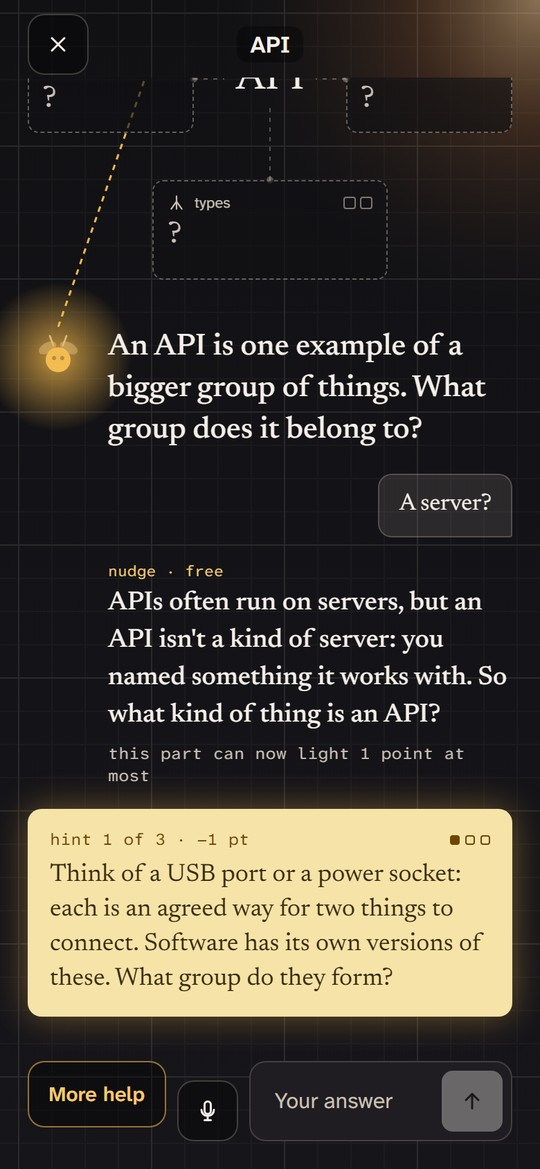
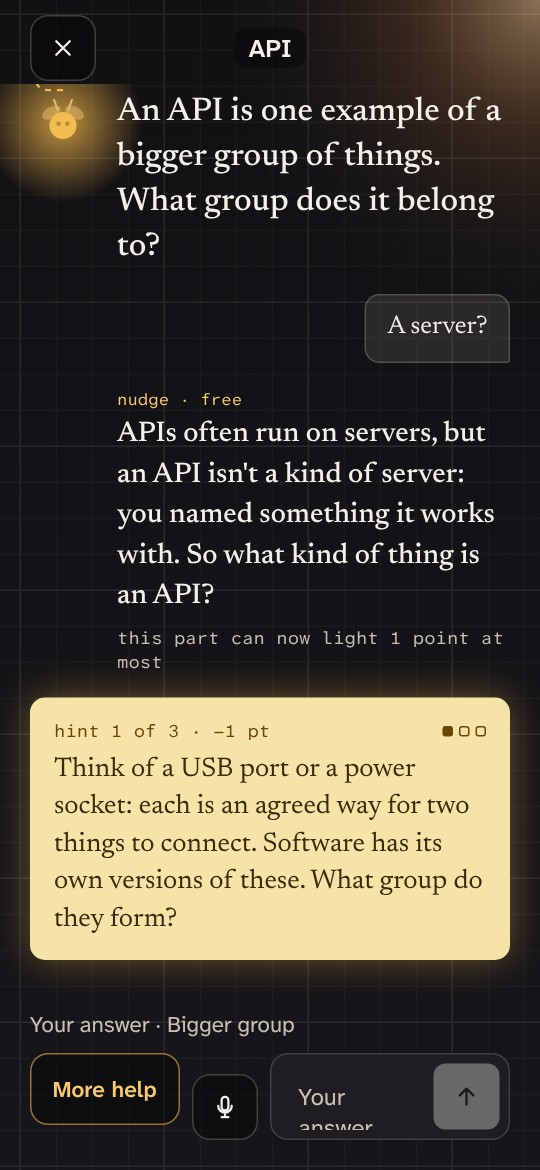
README: everything that shipped on Oct 23, with fresh demo-mode screens
The walk-through now follows the app's real screens and buttons: the
prediction picker with the scoring guide, the four map areas by name, Help
and its costs, the result's prediction and map score, Share, Resume, and
the map-first level 5 with the optional fact chat and the hint confirmation.
A new section, What Lumente remembers, explains the memory layer in plain
words and points at the SurrealDB prize notes. The Expo block takes its
counts from docs/expo-log.md: three Android builds, six updates on the
preview channel with the fingerprint check, three production web deploys,
Workflows, Observe, the installable web app, the update notice and the
version line. Try it has the live addresses and the reviewer sign-in from
docs/testing-notes.md. The diagram adds the resume, memory and delete routes
and the Agent Memory store. The Clerk and SurrealDB blocks say what Delete
my data removes now. The pilot results stay one marked placeholder.

The five screenshots are retaken from this branch's web export in demo mode
(the recorded API session), so they match the screens after #136 and #137.

Checked: every relative link resolves, no em dashes, every sentence under
25 words, the Mermaid diagram parses. Docs and images only, so no tests ran.

Claude-Session: https://claude.ai/code/session_01GYzHfCbjYhYU9wgS16jSwC

diff --git a/README.md b/README.md
@@ -19,7 +19,7 @@ Lumente helps students who code with AI learn to explain the ideas behind their 
 
 </div>
 
-<p align="center"><img src="docs/readme/hero.jpg" alt="Lumente's result screen on a laptop: the learner guessed 7 of 8 points and proved 5, next to the concept map for API with all four parts filled in" width="860" /></p>
+<p align="center"><img src="docs/readme/hero.jpg" alt="Lumente's result screen on a laptop: the learner predicted 7 of 8 points and proved 5, next to the concept map for API with all four areas filled in" width="860" /></p>
 
 <p align="center"><sub>The screens on this page come from the app's demo mode, which replays a session recorded live with Claude.</sub></p>
 
@@ -29,34 +29,50 @@ Lumente is an app for computer science students who build projects with AI tools
 
 In Lumente, the student picks one of those ideas and explains it by answering an AI's questions. At the end, they see how well they really know the idea, next to how well they thought they knew it.
 
-It works on the web and on Android. On an iPhone, use the web version.
+It runs on the web and on Android. On an iPhone or a laptop, the website installs as an app from the browser, with its own icon.
 
 ## Why we built it
 
 AI writes code faster than students can understand it. The gap shows when someone asks them to explain it: in a code review, an exam or a job interview. AI makes this more common, because code that works feels understood.
 
 - In a [study at Anthropic](https://www.anthropic.com/research/AI-assistance-coding-skills) (January 2026), developers learned a coding tool they'd never used. Those who used an AI assistant scored 50% on a quiz about it. Those who coded by hand scored 67%.
-- In [two studies at Aalto University](https://www.aalto.fi/en/news/ai-use-makes-us-overestimate-our-cognitive-performance), people who solved problems with ChatGPT did better, but they guessed their own score about 4 points too high.
+- In [two studies at Aalto University](https://www.aalto.fi/en/news/ai-use-makes-us-overestimate-our-cognitive-performance), people who solved problems with ChatGPT did better. But they guessed their own score about 4 points too high.
 
 Programming students face this every week. Their AI writes their work every day, and code reviews, project defenses and job interviews check it.
 
 ## How it works
 
-1. Pick an idea from your project, like an API, or type your own. You can paste in your notes about it.
-2. Guess your score, out of 8.
-3. Answer four questions about the idea, one at a time:
-   - What kind of thing is it?
-   - What is it often confused with, and how is it different?
-   - What does it need to count as one?
-   - What types of it are there?
-4. If you're stuck, ask for a hint. Each hint costs points, and you get less help as you improve.
-5. See your real score next to your guess.
+A session takes about ten minutes. Here is one, with the app's real buttons.
 
-The firefly on screen is the AI. It asks the questions and checks your answers, and you can type or speak. After enough practice, the roles flip: you ask the questions, and the AI only answers with facts.
+1. **Pick an idea.** The start screen asks: "Can you explain the ideas behind the code your AI wrote?" Tap a concept from your project, like API, JWT or CORS, or type your own. "Add your notes" takes pasted text for the AI to draw on. "Ask your AI what to map" gives you a prompt for your coding agent, so the concepts come from your own project. Then tap "Explore with guidance".
+2. **Predict your score.** Before any question, you pick a number from 0 to 8. A guide on the same screen says what each of the four map areas can earn. A clear, complete answer on the first try earns 2 points. One after a retry or a hint earns 1. A wrong, empty or revealed answer earns 0.
+3. **Explain it in your own words first.** Then the firefly asks about the four areas of the map, one at a time:
+   - Bigger group: what kind of thing is it?
+   - What it isn't: what is it often confused with, and how is it different?
+   - What it needs: what must be true for something to count as one?
+   - Its types: what kinds of it are there?
 
-| Pick and guess | Answer the questions | Get a hint | See your score |
+   You type or speak. Any answer you can defend passes. When an area is right, the feedback also says what you left out.
+4. **Ask for help when you're stuck.** Tap the firefly. The first Help on an area caps it at 1 point, and the third shows the answer for 0. At the early levels, a wrong answer gets a free nudge first. As you get areas right with little or no help, each one moves up a level, and the help fades.
+5. **See your score next to your prediction.** The result says the gap in words, like "You felt 2 points surer than you could explain". Under it, two rows of eight points: your prediction and your map score. Then come each area's points and which areas moved up a level. The coach adds one note for next time. "Share" sends your prediction and your score, never your answers.
+
+After enough practice, all four areas reach level 5 and the roles flip. You build the whole map yourself: tap an area, write your answer, "Save answer". The firefly's highlight points at the next empty area, for free. "Ask a fact (optional)" opens a chat that answers your questions with facts and never with a part of the map. A hint asks you to confirm and names its cost first. "Review & submit", then "Submit my map", scores all four areas together. "Test myself" on the start screen runs this mode on any concept at once and changes no levels. Our pilot's two tests use it.
+
+If you close the app or reload the page, the session waits on the start screen behind a "Resume" button.
+
+The firefly on screen is the AI. It asks and checks, its light warms under your finger or your pointer, and it never hands you the answer.
+
+| Predict | Answer the questions | Get a hint | See your score |
 |:---:|:---:|:---:|:---:|
-| <img src="docs/readme/step-1-guess.jpg" alt="The guess screen: how many of the 8 points will you prove? The guess is 7" width="200" /> | <img src="docs/readme/step-2-map.jpg" alt="A question about API, with two parts of the map already filled in" width="200" /> | <img src="docs/readme/step-3-hint.jpg" alt="After the answer 'A server?', a free nudge and a hint card that costs one point" width="200" /> | <img src="docs/readme/step-4-score.jpg" alt="The result: a guess of 7 and a score of 5, so the learner felt 2 points surer than they could explain" width="200" /> |
+| <img src="docs/readme/step-1-guess.jpg" alt="The prediction screen: how much can you explain on your own? The prediction is 7 of 8 points" width="200" /> | <img src="docs/readme/step-2-map.jpg" alt="A question about API, with two areas of the map already filled in" width="200" /> | <img src="docs/readme/step-3-hint.jpg" alt="After the answer 'A server?', a free nudge and a hint card that costs one point" width="200" /> | <img src="docs/readme/step-4-score.jpg" alt="The result: a prediction of 7 and a map score of 5, so the learner felt 2 points surer than they could explain" width="200" /> |
+
+## What Lumente remembers
+
+After each finished session, Lumente writes a few progress notes to SurrealDB Agent Memory. They hold your level on each area, your prediction next to your score, and how many Helps an area took. Each note is one sentence that code writes from a template. Your words never go in.
+
+The next time you practice the same concept, the hint giver and the coach read up to eight of these notes. They name the ones they used: "From what Lumente remembers: …". Tap that line, or "Memory" on the start screen, to see every note and how it changed. A new level replaces the old note and keeps its history.
+
+Memory never changes a score: the levels still come from plain code. "Delete my data" removes the notes with everything else. Memory went on for the Oct 23 pilot ([`DECISIONS.md`](DECISIONS.md), Oct 23). How it fits the SurrealDB prize is in [the prize notes](wiki/context/surrealdb-sponsor-prize.md).
 
 ## The idea behind it
 
@@ -71,7 +87,7 @@ The four questions come from Conceptual Pedagogy, a way of teaching from Colombi
 | What does it need to count as one? | It orbits a star, its own gravity pulled it into a round shape, and it has cleared other objects out of its path |
 | What types are there? | Rocky planets like Earth and Mars, and giants made mostly of gas or ice, like Jupiter and Neptune |
 
-Each part of the method comes from learning research: help that fades, asking your own questions, explaining in your own words, and checking what you really know. The AI writes the questions and judges the answers. Plain code works out every score, so we can explain every number.
+Research backs each part: help that fades, asking your own questions, explaining in your own words, and checking what you really know. The AI writes the questions and judges the answers. Plain code works out every score, so we can explain every number.
 
 The method, the research and what we haven't proven yet are in the [product thesis](wiki/synthesis/product-thesis.md).
 
@@ -95,29 +111,38 @@ The help fades. The understanding stays.
 
 ## Try it
 
+**In two minutes.** Open [Lumente on the web](https://reality-check.expo.app) in any browser. Sign in with an email code, or with Google on the web. To skip the email, use any address that ends in `+clerk_test@example.com` and the code `424242`. Tap "API", then "Explore with guidance". Pick a prediction, explain the idea in your own words, and answer the four questions. Ask the firefly for help once, to see what a hint costs. The result shows your prediction next to your score.
+
 | On | Do this |
 |---|---|
-| A laptop, or any phone's browser | Open [Lumente on the web](https://reality-check.expo.app) |
-| Android | Install the app from [this link](https://expo.dev/artifacts/eas/LVkBl_worJBs2ro5p6z9vFa1XtYyA992vF3QrkSzG_A.apk) |
-| iPhone | Use the web link. There's no iPhone app |
+| A laptop, or any phone's browser | Open [Lumente on the web](https://reality-check.expo.app). On a laptop or an iPhone, you can add it to the home screen: it opens full screen with its own icon |
+| Android | Install the app from [this link](https://expo.dev/artifacts/eas/LVkBl_worJBs2ro5p6z9vFa1XtYyA992vF3QrkSzG_A.apk). Android asks once to allow the install. The app updates itself on its second launch after we ship a fix |
+| iPhone | Use the web link. There's no App Store app |
 
-Sign in with Google or an email code. To skip the email, use any address that ends in `+clerk_test@example.com` and the code `424242`. The [five-minute guide](docs/testing-notes.md) walks you through a full session.
+The live addresses:
+
+- The website: https://reality-check.expo.app
+- The pilot's website, the same code deployed by hand before a test: https://reality-check--testers.expo.app
+- The server's health check: https://build-north-api.onrender.com/health answers `{"ok":true}`
+- The Android app: the `preview` build linked above (build 3, Oct 22)
+
+The [five-minute guide](docs/testing-notes.md) walks you through a full session, what is stored, and how to delete it.
 
 ## What we found
 
-Before Demo Day, five computer science students who code with AI tried Lumente. Each one took a test, did two practice sessions, and took a second test. Both tests were on ideas they hadn't practiced in the app.
+On the evening of Oct 23, five computer science students who code with AI tried Lumente. Each one took a test, did two practice sessions, and took a second test. Both tests were on ideas they hadn't practiced in the app.
 
-*TODO(Cynthia): the pilot's numbers (first test against second test, and the gap between guess and score), and when the testers said they'd open the app.*
+*TODO(Cynthia): the pilot's numbers: first test against second test, prediction against score, and when the testers said they'd open the app.*
 
 ## For the judges
 
 | Criterion | Where to look |
 |---|---|
-| Innovation | The AI won't do the thinking for you. You build each answer, the help fades as you improve, and after enough practice you ask the questions |
+| Innovation | The AI won't do the thinking for you. You build each answer, the help fades as you improve, and at level 5 you write the whole map and ask the questions. Between sessions, the app remembers your progress, never your words |
 | Real-world impact | One clear user, a problem backed by research, and our pilot's numbers. Students use it free. Instructors, bootcamps and colleges pay for seats and a view of what each student has mastered |
-| UI and design | Lumente's own look: a dark screen that lights up as you prove each answer. It works on phones, and as a two-column website on laptops |
-| Tech and deployment | Live on the web and on Android, built and shipped with Expo. Only our server talks to the AI, and plain code works out every score |
-| Security and ethics | The AI key stays on our server. Notes that look like a password never leave the phone. You can delete your data from the app. There are no streaks. Our testers were adults who agreed to take part |
+| UI and design | Lumente's own look: a dark screen that lights up as you prove each answer, and a firefly whose light answers your finger. It works on phones, installs as an app from the browser, and lays out as a two-column website on laptops |
+| Tech and deployment | Live on the web and on Android, built, updated and hosted with Expo's EAS. A session survives a reload or a killed app. Only our server talks to the AI, and plain code works out every score |
+| Security and ethics | The AI key stays on our server. Notes that look like a password never leave the phone. Memory keeps progress notes, never your words, and you can delete your data from the app. There are no streaks. Our testers were adults who agreed to take part |
 
 <details>
 <summary><b>How it's built</b></summary>
@@ -126,17 +151,20 @@ In short: the app runs on phones and the web, it talks only to our server, and o
 
 | Layer | What |
 |---|---|
-| App | Expo SDK 58, React Native, Expo Router, TypeScript. EAS Build (Android), EAS Update, EAS Hosting (web) |
-| API | Express 5 on Node 24, hosted on Render. SurrealDB Cloud for sessions, progress and AI logs. Clerk for sign-in |
-| Agents | Six Claude (Anthropic) agents: one asks the questions, one checks each answer, one checks all four answers at once, one answers with facts, one gives hints and one coaches. Each makes one structured call, and plain code runs the session |
+| App | Expo SDK 58, React Native, Expo Router, TypeScript. EAS Build (Android), EAS Update, EAS Hosting (web). The website is also an installable web app |
+| API | Express 5 on Node 24, hosted on Render. SurrealDB Cloud for sessions, levels and AI logs. SurrealDB Agent Memory for the progress notes. Clerk for sign-in |
+| Agents | Six Claude (Anthropic) agents. One asks the questions, one checks each answer, one checks the whole map, one answers with facts, one gives hints and one coaches. Each makes one structured call, and plain code runs the session |
 | Contracts | Zod schemas in `agents/src/contracts.ts` at every boundary: app to API, API to agents, agents to Claude |
+
+Every call to the server carries the Clerk token, and one route moves a session forward. The server reads it back after a reload, returns what Lumente remembers, and deletes everything on request. The full list is in [`agents/CONTRACTS.md`](agents/CONTRACTS.md).
 
 ```mermaid
 flowchart LR
-  App["App: Expo, Android and web<br/>EAS Build, Update, Hosting"] -->|"Clerk session token<br/>POST /sessions, /turns"| API["API: Express 5 on Render"]
+  App["App: Expo, Android and the web<br/>EAS Build, Update, Hosting"] -->|"Clerk session token<br/>POST /sessions, /turns<br/>GET /sessions/:id, /me/memory<br/>DELETE /me/data"| API["API: Express 5 on Render"]
   Clerk["Clerk"] -. "sign-in, token" .-> App
-  API -->|"verifies the token<br/>with the public key"| Clerk
-  API -->|"sessions, mastery, agent logs"| DB[("SurrealDB Cloud")]
+  API -->|"checks the token<br/>with the public key"| Clerk
+  API -->|"sessions, levels, agent logs"| DB[("SurrealDB Cloud")]
+  API -->|"progress notes: written at the result,<br/>read before a hint or the coach"| Memory[("SurrealDB Agent Memory")]
   API -->|"advance(): the orchestrator<br/>in agents/, plain code"| Agents["Agents: prompts and Zod contracts"]
   Agents -->|"one structured call per agent"| Claude["Claude (Anthropic)"]
 ```
@@ -150,29 +178,42 @@ We entered Best Overall, Best Use of Expo, Best Use of Clerk and Best Use of Sur
 <details>
 <summary><b>Best Use of Expo</b>: one codebase, shipped to Android and the web with EAS</summary>
 
-One TypeScript codebase runs on Android and the web. EAS Build made our Android app, starting Oct 21. EAS Update sends fixes straight to phones with no new install, and it shipped its first one the same day. EAS Hosting serves the website.
+One TypeScript codebase runs on Android and on the web, and the web build installs as an app on iPhones and laptops. There is no App Store app. We had no Apple account this week, so iPhones get the web app ([`DECISIONS.md`](DECISIONS.md), Oct 23).
 
-From the Expo SDK we use Expo Router, expo-updates, expo-secure-store (keeps the sign-in token), expo-web-browser (Clerk's sign-in on Android), expo-speech-recognition (answers by voice), expo-haptics, expo-font and Expo Observe.
+What EAS did for us, from the [Expo log](docs/expo-log.md), by the afternoon of Oct 23:
 
-Every build, update and deploy is in the [Expo log](docs/expo-log.md), and [How Expo shaped Lumente](docs/expo-log.md#how-expo-shaped-lumente-oct-22) tells the story, challenges included.
+- **EAS Build:** three Android builds. A development build and a `preview` APK on Oct 21, the day the EAS project was made. Then build 3 on Oct 22, after Lumente's icon and the voice module changed the native code. Build 3 is the APK linked above.
+- **EAS Update, with the fingerprint check:** six updates over the air on the `preview` channel. The first shipped the same day as the first build. The runtime policy is `fingerprint`, so an update only reaches builds with the same native code. Before an update, `eas fingerprint:compare` checked that build 3 could run it. Fixes went out as updates, and no fourth build was needed. On Oct 23, the testers' phones got the day's merges before the evening slots.
+- **The update notice:** when an update is downloaded, the app says "A new version is ready" with a Restart button. It checks again when it comes back to the foreground and when the start screen shows, at most once a minute.
+- **EAS Hosting:** the website, deployed from `main` three times by Oct 23. The `review`, `testers` and `polish` aliases served the design review, the pilot and our own checks. A web deploy uses no build credit.
+- **EAS Workflows:** `ship.yml` publishes the update and deploys the website, and `preview-build.yml` builds an APK when the fingerprint changes. Its first real run stalled in the free queue, so the two jobs ran by hand that day.
+- **Expo Observe:** launch times, time to interactive on each screen, and crashes on the Android app. It also reports the crashes a learner recovers from with Try again.
+- **The installable web app:** a web manifest, icons and Apple's home-screen tags in the static export. Every shared page gets a link card.
+- **The version line:** "Your data" ends with the version and the EAS Update the app runs. A tester or a judge can name exactly what they saw.
+
+From the Expo SDK we use Expo Router, expo-updates, expo-constants, expo-secure-store (the sign-in token), expo-web-browser and expo-auth-session (Clerk's sign-in on Android). Also expo-haptics, expo-font, expo-splash-screen, expo-file-system (the saved session on a phone), expo-dev-client and expo-observe. Answers by voice use expo-speech-recognition, a community module built on the Expo Modules API. Reanimated draws the light and the firefly, and react-native-svg draws the map.
+
+Every build, update and deploy is in the [Expo log](docs/expo-log.md). [How Expo shaped Lumente](docs/expo-log.md#how-expo-shaped-lumente-oct-22) has one line per Expo piece and the job it does. [Challenges we ran into](docs/expo-log.md#challenges-we-ran-into) has the real bugs with their causes and fixes.
 
 </details>
 
 <details>
 <summary><b>Best Use of Clerk</b>: sign-in and sessions, checked on our server without a network call</summary>
 
-Clerk runs sign-in and sessions, by email code or Google. We pick the sign-in methods in the Clerk dashboard, with no code change. The website shows Clerk's ready-made sign-in form, and Android opens Clerk's sign-in page in an in-app browser. Our server checks each session token with Clerk's public key, without a network call, and files every session and progress record under the Clerk user id. Delete my data removes that person's sessions, AI logs and progress.
+Clerk runs sign-in and sessions, by email code or Google. We pick the sign-in methods in the Clerk dashboard, with no code change. The website shows Clerk's ready-made sign-in form, and Android opens Clerk's sign-in page in an in-app browser. In the web app installed on an iPhone, the email code signs in without leaving the window. Our server checks each session token with Clerk's public key, without a network call. Every session, level and progress note is filed under the Clerk user id. Delete my data removes that person's sessions, AI logs, levels and memory notes, and signs them out.
 
 More in [How we used Clerk](docs/clerk.md).
 
 </details>
 
 <details>
-<summary><b>Best Use of SurrealDB Agent Memory</b>: the app remembers each learner across sessions</summary>
+<summary><b>Best Use of SurrealDB Agent Memory</b>: the app remembers each learner's progress across sessions</summary>
 
-<!-- TODO(Cynthia): keep this block only if memory is live at the freeze (plan-to-win, section 4). If the flag stays off, SurrealDB goes back to one line: our database, in plain tables. -->
+<!-- TODO(Cynthia): confirm that memory stayed on through the freeze. If the switch went off, cut this block to one line: SurrealDB Cloud is our database, in plain tables. -->
 
-SurrealDB Cloud stores the sessions, progress and AI logs, with a `dev` and a `prod` database. SurrealDB Agent Memory remembers each learner between sessions: their level on each part, their latest gap between guess and score, and the hints that cost them most. Code writes each memory as a short fact from a template, never in the learner's words, and memory never changes a score. Before the AI gives a hint or advice, our server reads up to 8 of these facts, and the AI names the ones it used, so every message traces back to its facts. Learners see what's remembered, and how it changed, in the app's Memory sheet, and Delete my data erases it ([`DECISIONS.md`](DECISIONS.md), Oct 22).
+SurrealDB Cloud stores the sessions, the levels and the AI logs, with a `dev` and a `prod` database. SurrealDB Agent Memory holds the progress notes from [What Lumente remembers](#what-lumente-remembers), one scope per learner under a salted hash of their Clerk id. Code writes each note from a template and sends it as a plain fact. Memory runs no model over it, and the learner's words never go in.
+
+Three agents write the notes (the evaluator the levels, the coach the gap, the hint giver the Helps), and two read them. Before a hint or the coach's message, the server reads up to 8 notes from earlier sessions. If the read takes over 1.5 seconds, the agent runs without them. The agent names the notes it used, the server keeps only the ids it passed in, and the app shows them under the message. A new level supersedes the old note and keeps its history, which is what the Memory sheet shows. Memory never changes a score, Delete my data purges the scope first, and the switch is one server variable. It went on for the Oct 23 pilot ([`DECISIONS.md`](DECISIONS.md), Oct 22 and Oct 23). What the live context taught us is on the [prize page](wiki/context/surrealdb-sponsor-prize.md).
 
 </details>
 
@@ -183,7 +224,7 @@ SurrealDB Cloud stores the sessions, progress and AI logs, with a `dev` and a `p
 | Name | Role |
 |---|---|
 | Cynthia Salazar | Team lead: the product, the design and the AI agents |
-| Leo Atienza | The server, hosting, Expo builds and sign-in |
+| Leo Atienza | The server, hosting, Expo builds, sign-in and the memory layer |
 | Jonathan *(TODO: last name)* | The app |
 | Kyle *(TODO: last name)* | The pilot, the pitch and the video |
 
@@ -195,9 +236,10 @@ SurrealDB Cloud stores the sessions, progress and AI logs, with a `dev` and a `p
 - We started from Expo's default `create-expo-app` template (SDK 58) and replaced its demo screens, icons and splash screen.
 - Fonts: Newsreader (Production Type), and Atkinson Hyperlegible Next and Mono (Braille Institute), under the SIL Open Font License, from `@expo-google-fonts`.
 - The images in our design boards (`docs/design/`) are CC0, public domain or from Unsplash.
-- AI tools: Lumente's AI runs on Claude (Anthropic), and we built it with Claude Code. *TODO(Cynthia): confirm, and add any other tools.*
+- Voice input uses `expo-speech-recognition`, a community module. The audio goes to the device's own speech service, and only the words reach us. The app's "Your data" sheet says so.
+- AI tools: Lumente's AI runs on Claude (Anthropic), and we built it with Claude Code, with Expo's agent skills and docs loaded. *TODO(Cynthia): confirm, and add any other tools.*
 - *TODO(Cynthia): confirm that nothing was built before Build Week.*
 
 </details>
 
-**For developers:** setup, tests, the repository map and how the team works are in [docs/developers.md](docs/developers.md). The contracts between the app, the server and the AI are in [agents/CONTRACTS.md](agents/CONTRACTS.md), and every decision with a trade-off is in [DECISIONS.md](DECISIONS.md).
+**For developers:** setup, tests, the repository map and how the team works are in [docs/developers.md](docs/developers.md). The path from a merge to production is in [docs/deploy.md](docs/deploy.md). The contracts between the app, the server and the AI are in [agents/CONTRACTS.md](agents/CONTRACTS.md). Every decision with a trade-off is in [DECISIONS.md](DECISIONS.md).
